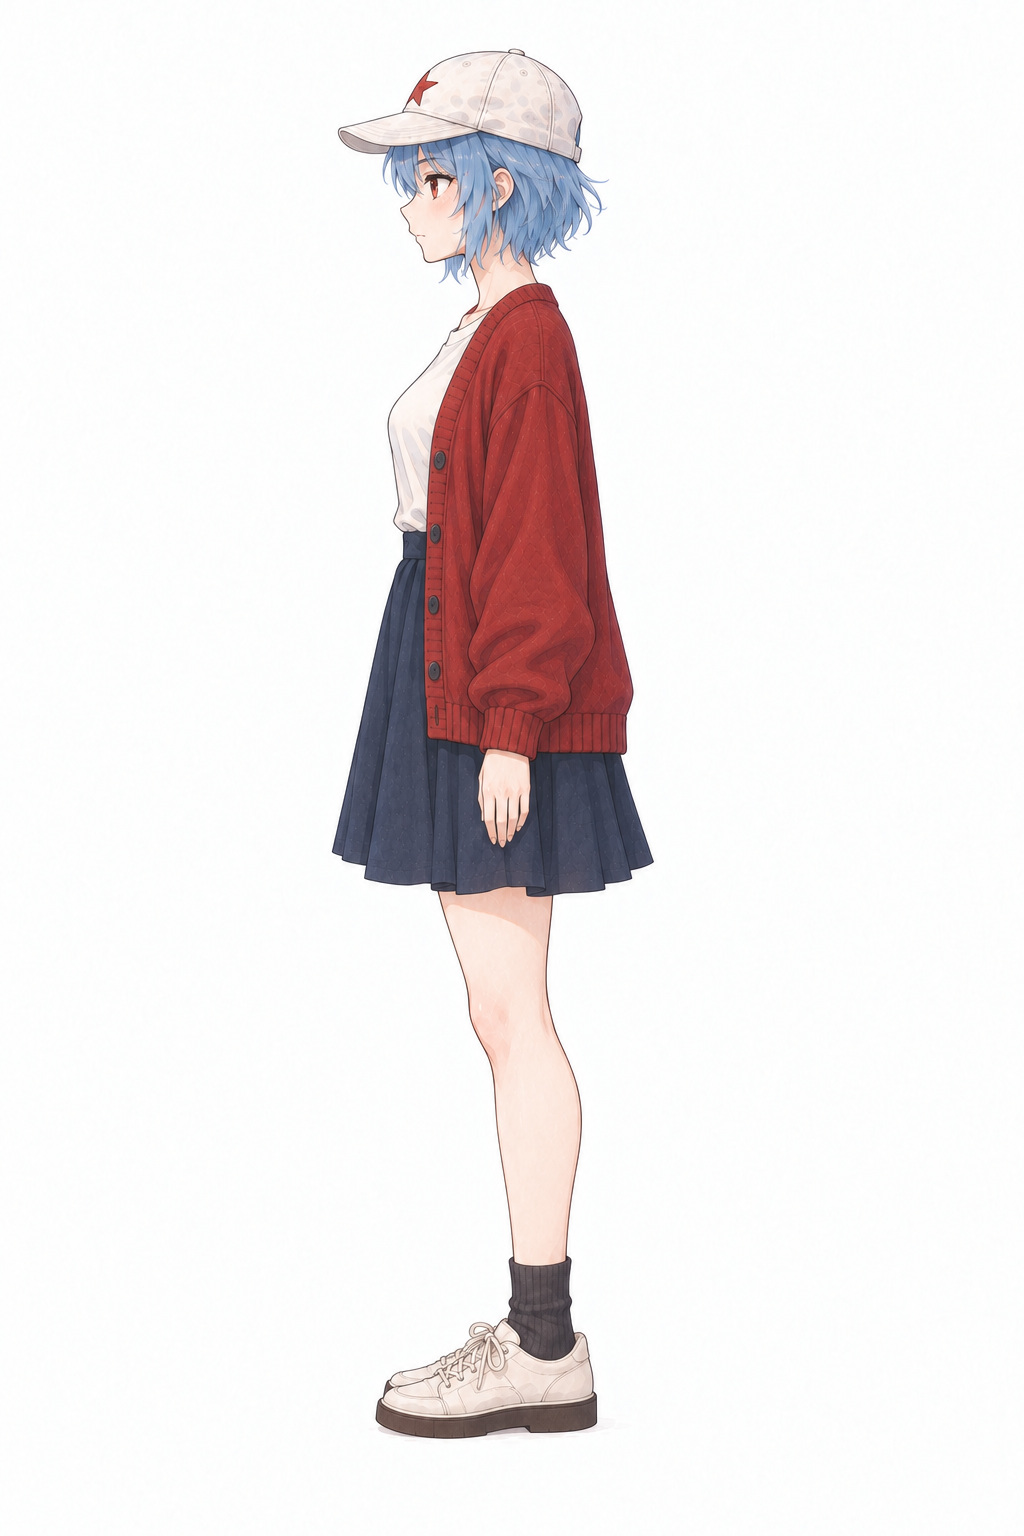
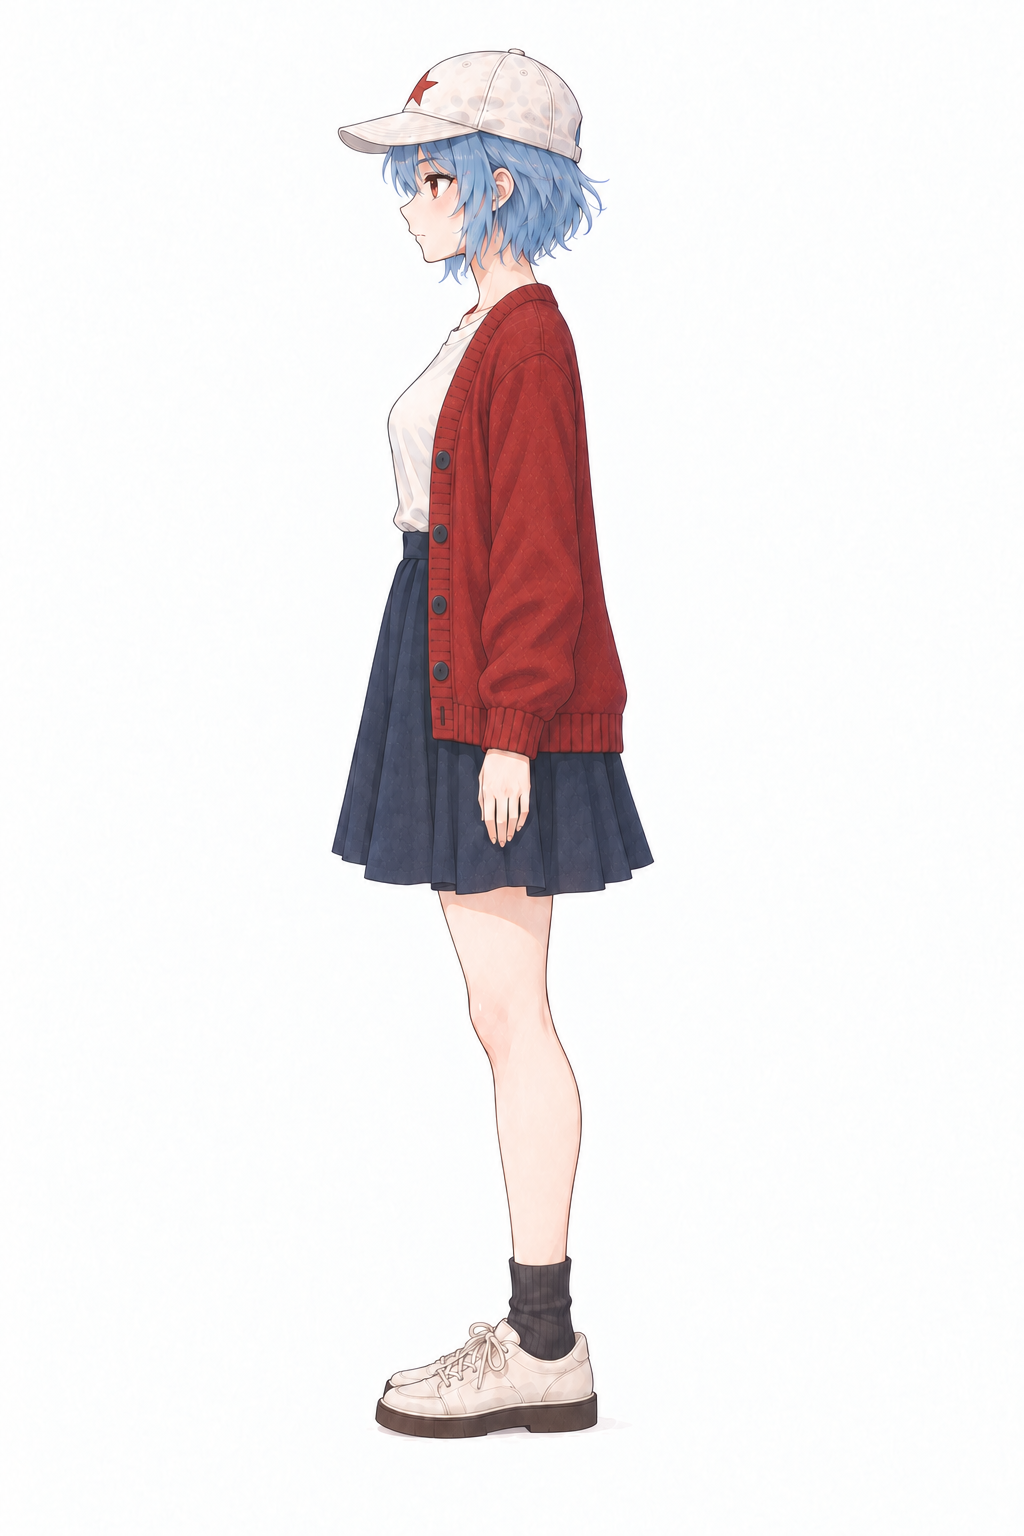
fix: refine standard form shoulder silhouette

diff --git a/kevinbee-illustrations/references/cover-prompt.md b/kevinbee-illustrations/references/cover-prompt.md
@@ -11,6 +11,6 @@
 7. **文字策略**：封面短主题词已确认时，作为与人物、道具共同构图的主要信息层；用户要无字版时明确不出现文字。有字版写出准确短标题，禁止额外单词、Logo 或水印。逐字核验失败时可局部修正或改用无字母图后续排字；若用户要的是有字成品，补字并重新核验前不得称为完成。
 8. **排除项**：多案例拼贴、信息图网格、无关 UI、小字、Logo 乱造、角色立绘式站姿、复杂背景抢主体。
 
-人物参考只校准凯冰的身份、成年身体和服装识别。研究图的肩袖尚未合格；即使标准母版也有宽松落肩袖，最终画面仍应收敛肩峰、上臂袖量和半身剪影。若生成器继承了母版的宽袖或画面近似现成案例，重新描述当前文章的动作、机位、人物剪影和信息层级后生成。
+人物参考校准凯冰的身份、成年身体、服装识别和已修正的肩袖轮廓。研究图的肩袖尚未合格，不能作为比例依据。最终画面仍要检查肩峰、上臂袖量和半身剪影；若动作透视重新放大肩臂，或画面近似现成案例，重新描述当前文章的动作、机位、人物剪影和信息层级后生成。
 
 生成后先读取实际尺寸，保留原图，再按目标平台制作裁切候选。提示词中的横版要求不等于实际返回横版；只验原图、不验最终裁切不算完成。裁切不是重构：不能切掉红星、眼睛、主动作或任何标题字形；安全区失败时重新构图。

diff --git a/kevinbee-illustrations/references/character-model.md b/kevinbee-illustrations/references/character-model.md
@@ -31,6 +31,6 @@
 
 ## 肩袖与剪影
 
-标准母版的宽松落肩袖仍需单独验收。当前图片可用于身份校准，不能把其上臂外扩当作新封面的目标肩宽。标准形态的骨架保持轻盈成年比例，肩峰窄而柔和；开衫保留针织松量，同时让上臂袖量与肩到臂的外轮廓自然收敛。近景动作或前景透视放大手臂时，检查两侧肩头是否变成宽方形。正文 Q 版按自身结构验收，不借用标准形态的骨架。
+标准母版与各角度全身图采用同一肩袖关系：骨架保持轻盈成年比例，肩峰窄而柔和；开衫仍有针织松量，但落肩线靠近自然肩点，上臂袖量与肩到臂的外轮廓收敛。近景动作或前景透视放大手臂时，仍要检查两侧肩头是否变成宽方形，不能因参考图合格而跳过最终画面验收。正文 Q 版按自身结构验收，不借用标准形态的骨架。
 
 参考图不提供默认姿势、隐喻物件或版式。先定当前文章的事件，再确定人物视角、重心、接触点和表情；只有实际出现身份漂移时才增加参考。

diff --git a/README.md b/README.md
@@ -56,7 +56,7 @@ Use $kevinbee-illustrations 为这篇已定稿文章生成封面。
 |---|---|
 | ![凯冰标准形态](kevinbee-illustrations/assets/identity/standard/master.png) | ![凯冰正文 Q 版](kevinbee-illustrations/assets/identity/article-q/master-front.png) |
 
-标准形态的现有母版可校准身份，但其宽松落肩袖仍待比例验收；新封面需单独检查肩峰、袖量和最终剪影。母版内容尚未重画。
+标准形态母版及各角度全身图已统一收敛落肩线与上臂袖量，可用于校准身份和肩袖轮廓。新封面仍需按具体动作、景别和最终裁切检查肩峰、袖量与剪影。
 
 ## 专门的封面功能与案例
 
